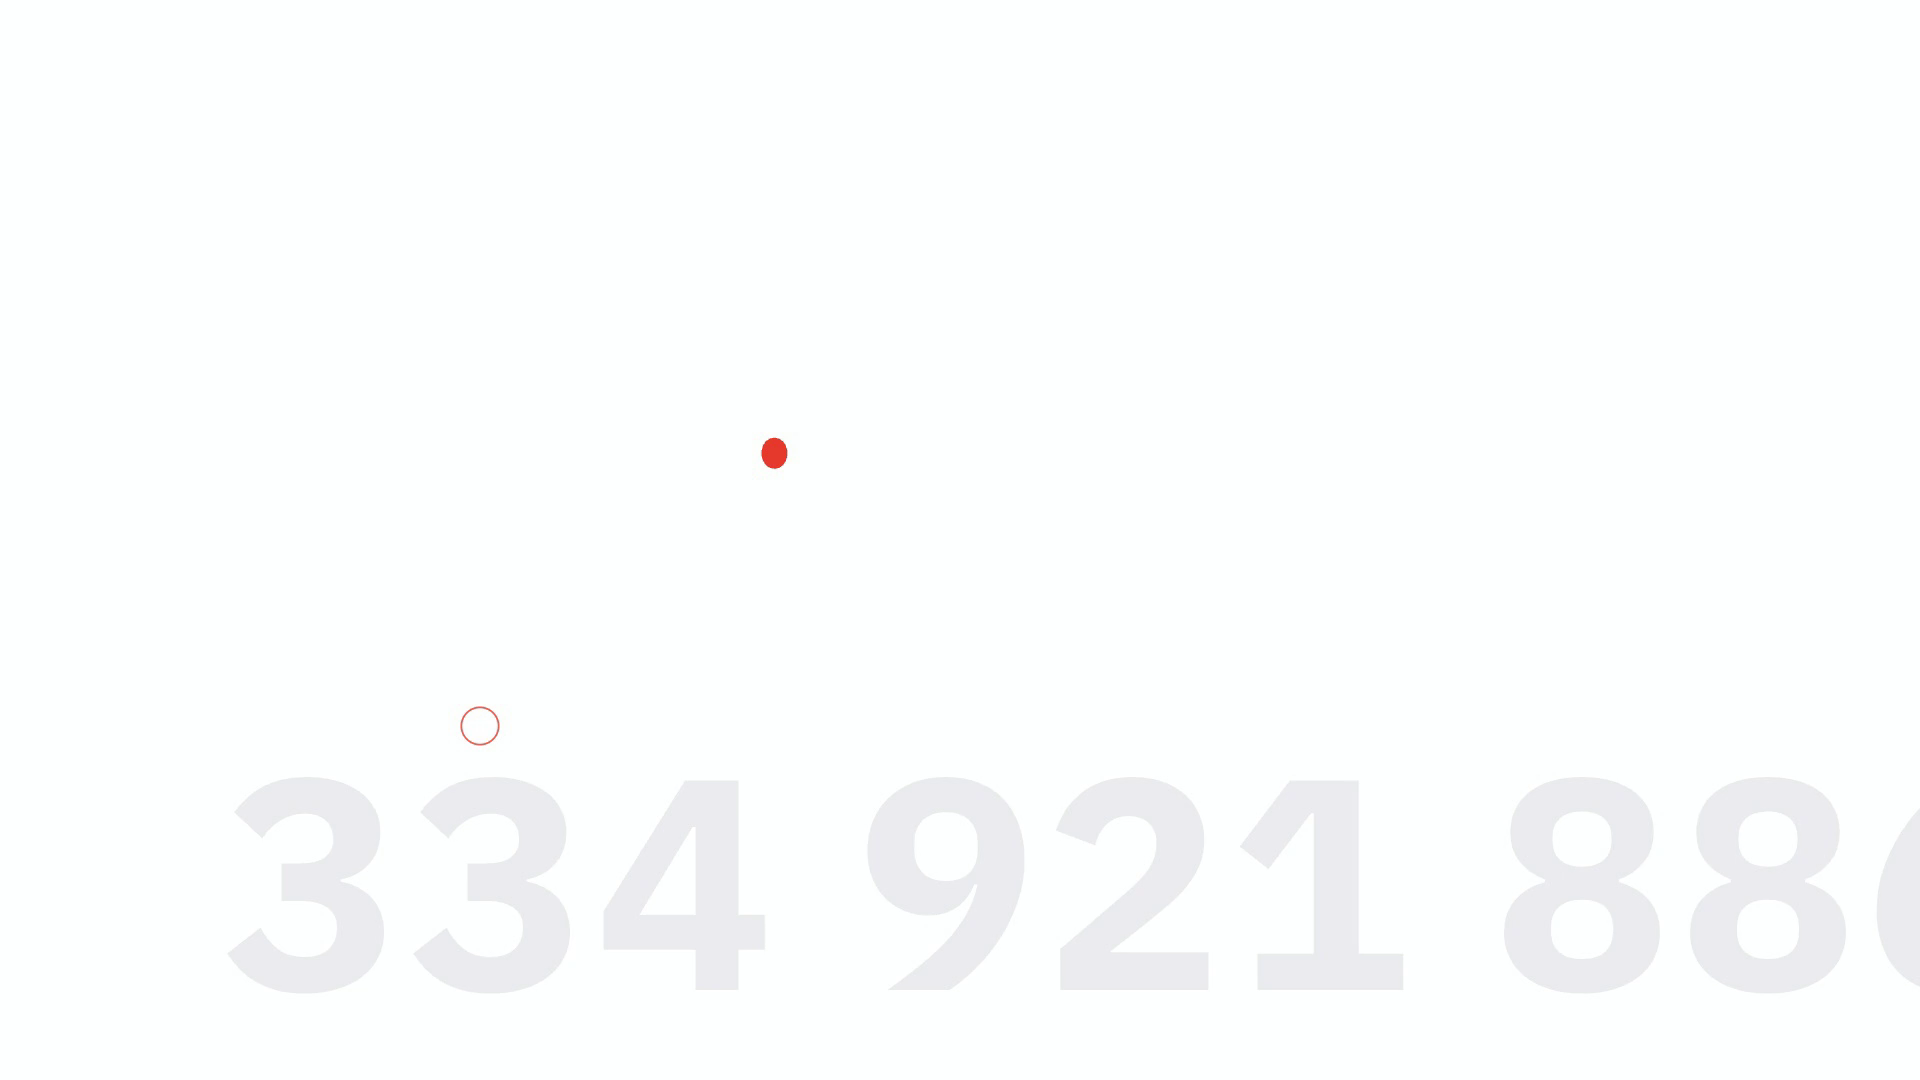
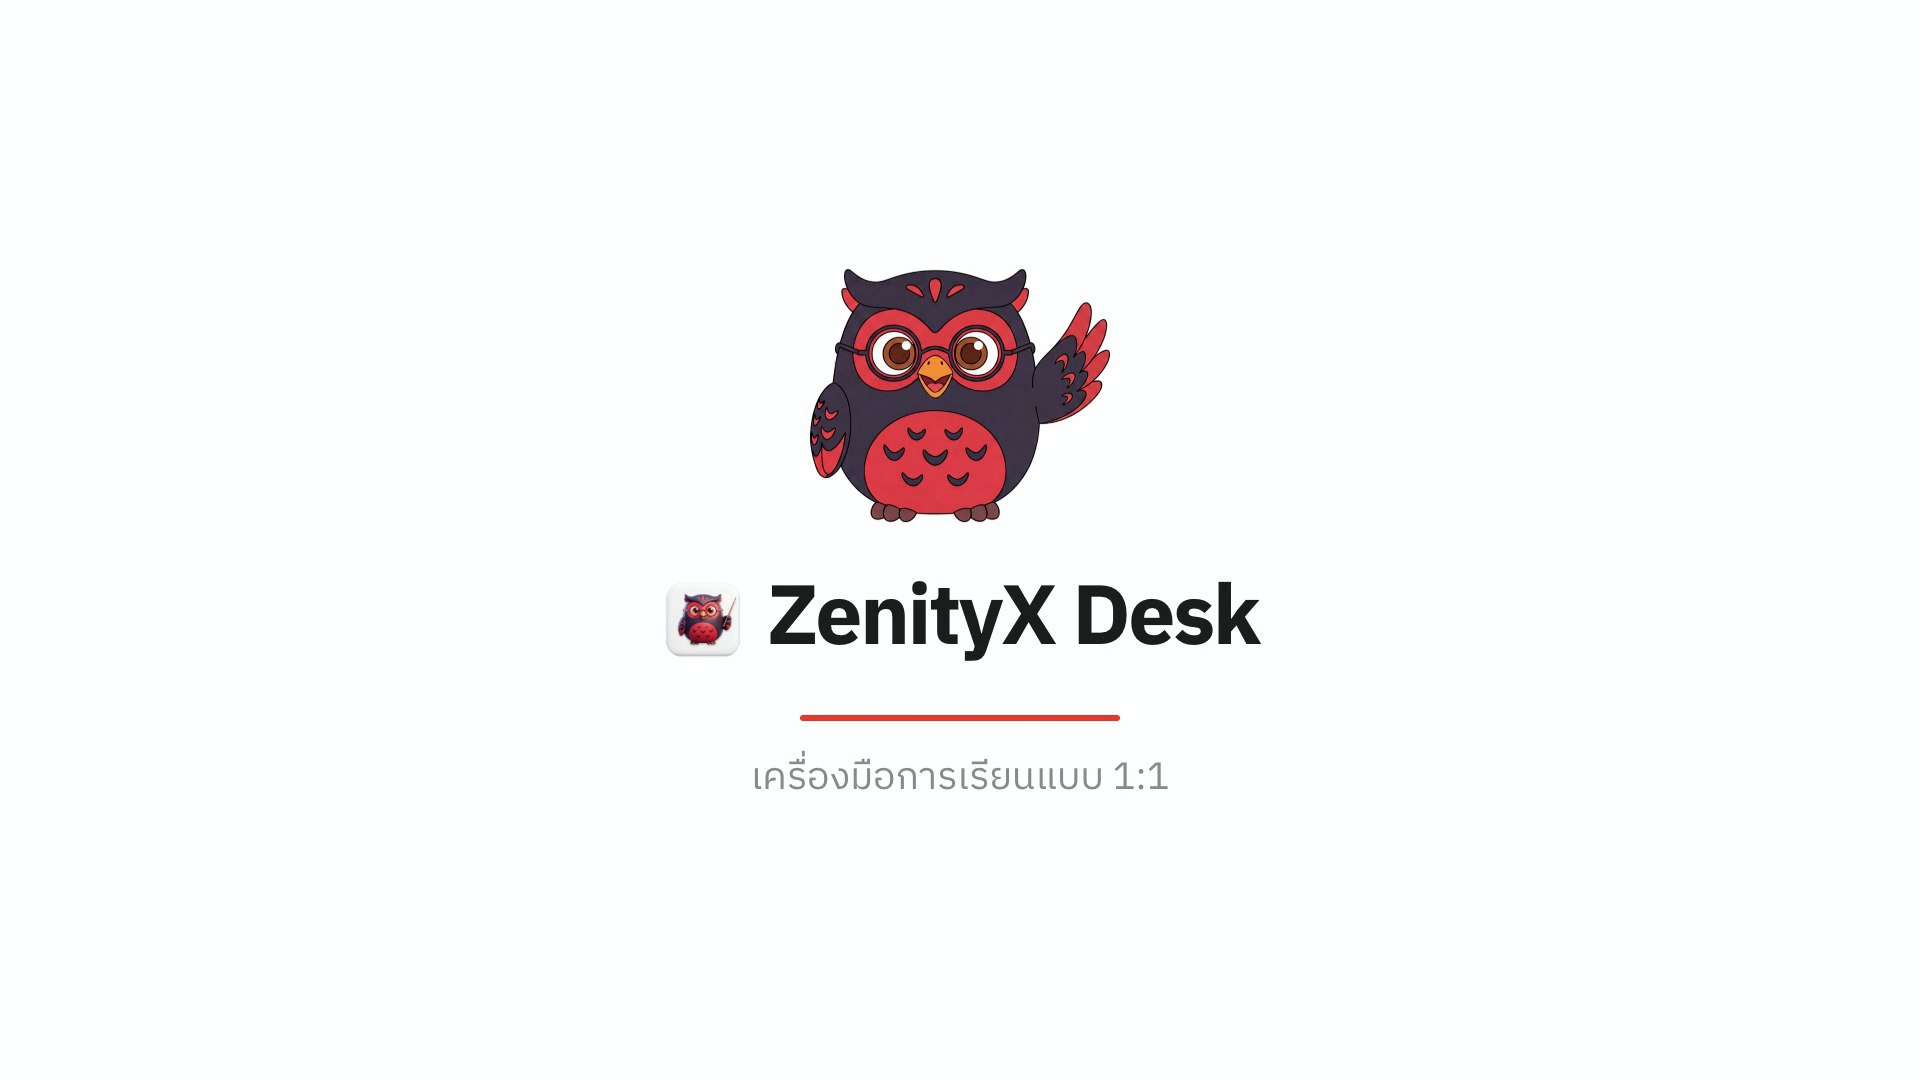
Site: hero video blends into page — strip framing chrome
Remove the video's top/bottom meta bars, corner rules, and ghost
watermark so the kinetic story floats on pure white identical to the
page background. Per Trin: the Remotion should feel like part of the
UI (a living hero), not a contained/embedded video block.

Verified: top/bottom edge bands now 0.00% non-white; lint 0 errors;
inspect 0 layout issues. Re-rendered + new branded poster.

diff --git a/branding/hero-video/index.html b/branding/hero-video/index.html
@@ -21,31 +21,6 @@
     color: #1d1d1f;
   }
 
-  /* ---------- background layer ---------- */
-  .ghost-id {
-    position: absolute; right: -90px; bottom: -70px; z-index: 0;
-    font-size: 300px; font-weight: 700; letter-spacing: .02em;
-    color: #ececf0; white-space: nowrap;
-    font-variant-numeric: tabular-nums;
-  }
-  .corner-rule-t {
-    position: absolute; top: 96px; left: 150px; right: 150px; z-index: 0;
-    height: 2px; background: #ececef; transform-origin: left center;
-  }
-  .corner-rule-b {
-    position: absolute; bottom: 96px; left: 150px; right: 150px; z-index: 0;
-    height: 2px; background: #ececef; transform-origin: right center;
-  }
-
-  /* ---------- meta layer ---------- */
-  .meta { position: absolute; z-index: 4; font-family: "IBM Plex Mono", monospace;
-          font-size: 21px; font-weight: 500; letter-spacing: .14em; color: #74747c; }
-  .meta-tl { top: 52px; left: 150px; }
-  .meta-tr { top: 52px; right: 150px; display: flex; align-items: center; gap: 12px; }
-  .meta-tr .dot { width: 12px; height: 12px; border-radius: 50%; background: #2fbf8f; }
-  .meta-br { bottom: 52px; right: 150px; }
-  .meta-bl { bottom: 52px; left: 150px; }
-
   /* ---------- headline block ---------- */
   .scene-content {
     position: relative; z-index: 2;
@@ -106,17 +81,6 @@
 <body>
 <div data-composition-id="root" data-width="1920" data-height="1080" data-start="0" data-duration="12" data-track-index="0">
 
-  <!-- background -->
-  <div class="ghost-id" data-layout-allow-overflow>334 921 886</div>
-  <div class="corner-rule-t"></div>
-  <div class="corner-rule-b"></div>
-
-  <!-- meta -->
-  <div class="meta meta-tl">ZENITYX DESK</div>
-  <div class="meta meta-tr"><span class="dot"></span><span>LIVE 1:1</span></div>
-  <div class="meta meta-bl">desk.zenityx.com</div>
-  <div class="meta meta-br">v1.4.6</div>
-
   <!-- kinetic headline -->
   <div class="scene-content">
     <div class="line line-1">
@@ -158,18 +122,6 @@
   <script>
     window.__timelines = window.__timelines || {};
     const tl = gsap.timeline({ paused: true });
-
-    /* ---------- ambient background (seekable, finite) ---------- */
-    tl.fromTo(".ghost-id", { x: 40 }, { x: -50, duration: 12, ease: "none" }, 0);
-    tl.fromTo(".corner-rule-t", { scaleX: 0 }, { scaleX: 1, duration: 1.1, ease: "expo.out" }, 0.2);
-    tl.fromTo(".corner-rule-b", { scaleX: 0 }, { scaleX: 1, duration: 1.1, ease: "expo.out" }, 0.35);
-
-    /* ---------- meta ---------- */
-    tl.fromTo(".meta-tl", { x: -34, opacity: 0 }, { x: 0, opacity: 1, duration: 0.55, ease: "power3.out" }, 0.15);
-    tl.fromTo(".meta-tr", { x: 34, opacity: 0 }, { x: 0, opacity: 1, duration: 0.5, ease: "expo.out" }, 0.3);
-    tl.fromTo(".meta-bl", { opacity: 0 }, { opacity: 1, duration: 0.6, ease: "sine.out" }, 0.5);
-    tl.fromTo(".meta-br", { opacity: 0 }, { opacity: 1, duration: 0.6, ease: "sine.out" }, 0.6);
-    tl.to(".meta-tr .dot", { opacity: 0.35, duration: 0.8, ease: "sine.inOut", yoyo: true, repeat: 11 }, 1.0);
 
     /* ---------- line 1: ติดตรงไหน (slide decay) ---------- */
     tl.fromTo(".w-1a", { x: 90, y: 24, opacity: 0 }, { x: 0, y: 0, opacity: 1, duration: 0.55, ease: "power4.out" }, 0.55);
@@ -216,7 +168,6 @@
     tl.to(".line-3", { y: -90, opacity: 0, duration: 0.45, ease: "power2.in" }, 8.51);
     tl.to(".cursor-2", { opacity: 0, duration: 0.3, ease: "power1.in" }, 8.4);
     tl.set([".scene-content", ".cursor-2"], { visibility: "hidden" }, 9.05);
-    tl.to(".ghost-id", { opacity: 0.35, duration: 0.6, ease: "sine.inOut" }, 8.5);
 
     /* owl + lockup */
     tl.fromTo(".owl", { scale: 0.4, y: 70, opacity: 0 }, { scale: 1, y: 0, opacity: 1, duration: 0.7, ease: "back.out(1.6)" }, 8.95);
@@ -226,8 +177,7 @@
     tl.to(".owl", { y: -10, duration: 0.7, ease: "sine.inOut", yoyo: true, repeat: 1 }, 10.1);
 
     /* ---------- final fade to white for seamless loop ---------- */
-    tl.to([".resolve", ".meta-tl", ".meta-tr", ".meta-bl", ".meta-br", ".ghost-id", ".corner-rule-t", ".corner-rule-b"],
-      { opacity: 0, duration: 0.55, ease: "power2.in" }, 11.4);
+    tl.to(".resolve", { opacity: 0, duration: 0.55, ease: "power2.in" }, 11.4);
 
     window.__timelines["root"] = tl;
   </script>
